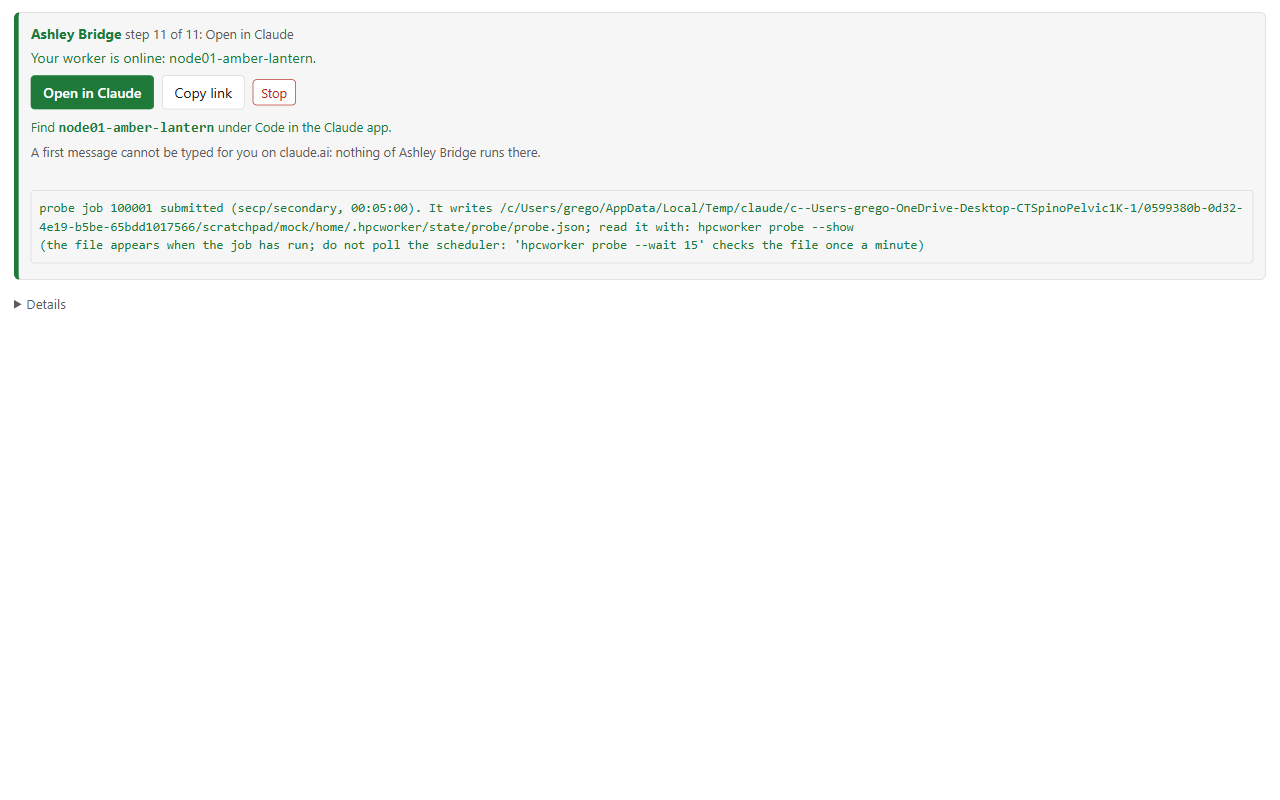
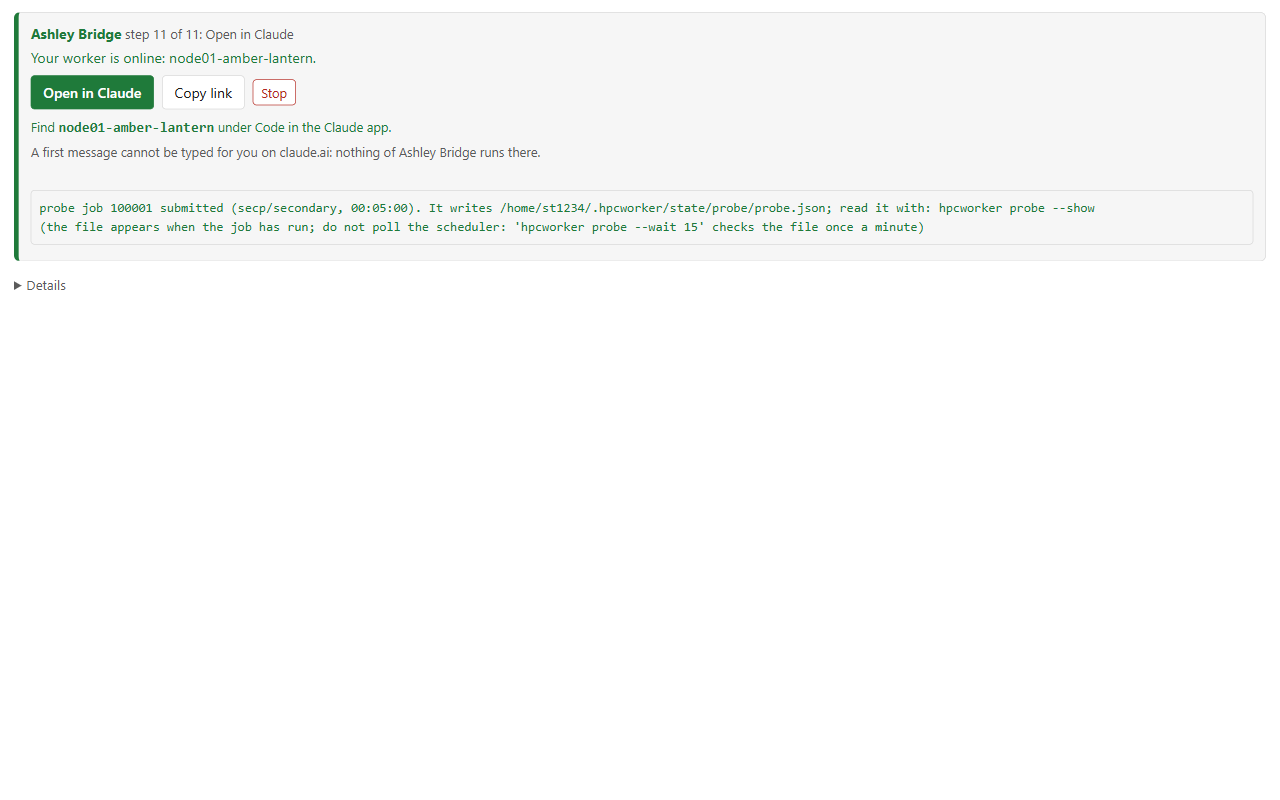
Store screenshots recaptured: neutral home path in the mock (MOCK_DISPLAY_HOME, default /home/<user>), check 1 OK from the live kill-list, settled states

Changed region(s): [[0.0312, 0.25, 0.9688, 0.3125], [0.0, 0.3438, 0.0625, 0.4062]]

diff --git a/extension/README.md b/extension/README.md
@@ -205,14 +205,18 @@ Claude Code 2.1.283). Its `claude login --plain` prints the framework's lines (`
 instead of 404 on `/rnode/`), `--no-clusters` (the shell closes 3146 "No clusters defined."), `--cold` (first request
 bounces through `/nginx/init`), `--cold-pun MS` (the first `/pun/` request after MS ms of quiet answers 500 once, as
 the live portal's per-user nginx does), `--job-composer`, `--no-cookie`, `--cert F --key F` (https with your own
-self-signed pair, e.g. from `openssl req -x509 -newkey ed25519 -nodes -keyout key.pem -out cert.pem -subj /CN=localhost -days 30`).
+self-signed pair, e.g. from `openssl req -x509 -newkey ed25519 -nodes -keyout key.pem -out cert.pem -subj /CN=localhost -days 30`),
+`--display-home DIR` (the home the seeded tool prints and records in place of the mock home's real path; by default the
+portal's own `/home/<user>`, so the strip's output box reads like a cluster wherever the mock home sits on disk).
 A `?download=1` of a file that does not exist answers 200 with an HTML page, as the live Files app does.
 
 Environment variables the seeded tool reads (set them for the mock server's process): `MOCK_LOGGED_IN=false`
 (the probe reports no Claude sign-in), `MOCK_CONSENT=false` (the probe reports no Remote Control answer on record),
 `MOCK_EGRESS=none` (the probe reports no egress; `http-proxy-auto` is also accepted), `MOCK_ENV_ID=env_01...`
 (the environment id in the registration block; by default one stable id per mock home, as Claude Code keys it
-to the machine), `MOCK_LOGIN_FAIL=1` (the plain sign-in ends with `HPCW-LOGIN-FAILED` whatever code is typed). The
+to the machine), `MOCK_LOGIN_FAIL=1` (the plain sign-in ends with `HPCW-LOGIN-FAILED` whatever code is typed),
+`MOCK_DISPLAY_HOME=/home/st1234` (the same as `--display-home`: the tool's sentences, `status.json` and `connection.json`
+carry this home in place of the real one; the files themselves stay where they are). The
 mock's `worker start` refuses a workspace holding `.restricted`, its `worker stop` writes `stop.done`, and its
 `claude login` without `--plain` explains the one-sitting flow (`claude consent` is an alias that explains).
 
